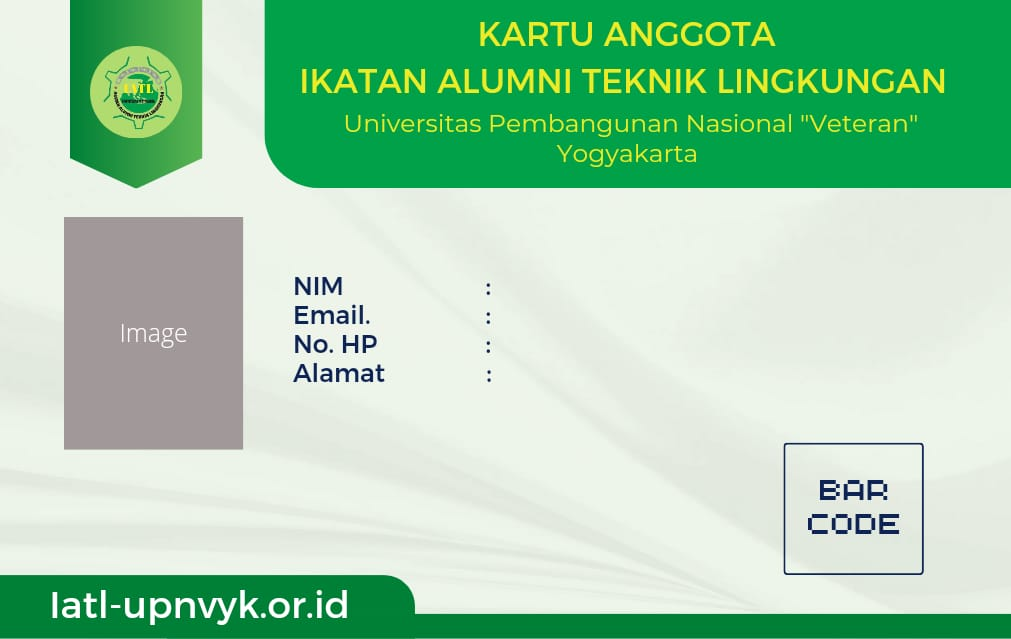
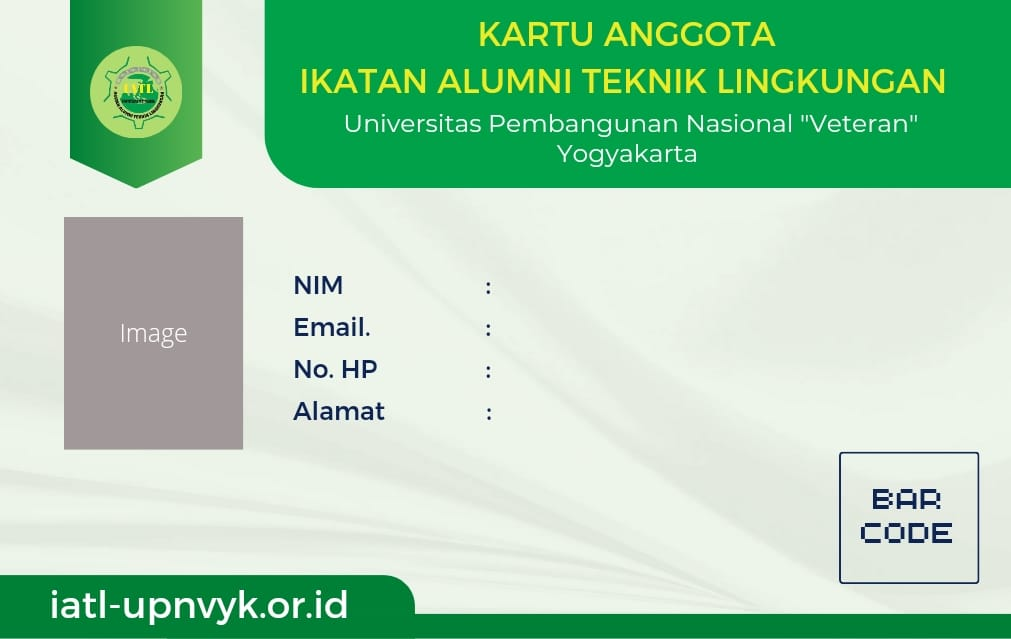
fix: content alumni card

diff --git a/resources/views/content/admin/dashboard/index.blade.php b/resources/views/content/admin/dashboard/index.blade.php
@@ -141,25 +141,25 @@
                                     <img src="{{ asset('images/iatl-card.jpeg') }}" height="200px" width="350px"
                                         class="rounded shadow " alt="Kartu Alumni">
                                     <img src="{{ asset('storage/' . auth()->user()->image) }}"
-                                        alt="{{ auth()->user()->name }}" width="65rem" height="75rem" id="foto-card"
-                                        class="position-absolute rounded" style="left: 6%; top:34%">
+                                        alt="{{ auth()->user()->name }}" width="65rem" height="76rem" id="foto-card"
+                                        class="position-absolute rounded" style="left: 6%; top:33%">
                                     <div class="name-card position-absolute" style="left: 29%; top: 30%;">
                                         <p>{{ auth()->user()->name ?? '-' }}</p>
                                     </div>
                                     <div class="name-card position-absolute"
-                                        style="left: 50%; top: 40%; font-size:0.65rem">
+                                        style="left: 50%; top:40%; font-size:0.65rem">
                                         <p>{{ auth()->user()->nim ?? '-' }}</p>
                                     </div>
                                     <div class="name-card position-absolute"
-                                        style="left: 50%; top: 45%; font-size:0.65rem">
+                                        style="left: 50%; top: 47%; font-size:0.65rem">
                                         <p>{{ auth()->user()->email ?? '-' }}</p>
                                     </div>
                                     <div class="name-card position-absolute"
-                                        style="left: 50%; top: 50%; font-size:0.65rem">
+                                        style="left: 50%; top: 54%; font-size:0.65rem">
                                         <p>{{ auth()->user()->phone_number ?? '-' }}</p>
                                     </div>
                                     <div class="name-card position-absolute"
-                                        style="left: 50%; top: 55%; font-size:0.60rem">
+                                        style="left: 50%; top: 61%; font-size:0.60rem">
                                         <p>{{ auth()->user()?->address_now }}, {{ auth()->user()->addressNow?->name }}
                                             {{ auth()->user()->addressNow?->province->name }}
                                         </p>
@@ -317,7 +317,7 @@
                             `<div class="text-center rounded">
                             <div class="card-header rounded">
                                 <div class="bg-info text-white bold p-2">
-                                    <b>Kabupate/Kota ${value.name}</b>
+                                    <b>${value.name}</b>
                                 </div>
                             <div class="card-body p-2">
                                 <div class="">Total Sebaran Alumni:</div>
@@ -349,7 +349,7 @@
                     }
                     let j = 1;
                     $('#loading-spinner').addClass('d-none');
-                    $('#title-province').text(`Data Sebaran Alumni Provinsi ${data.province}`)
+                    $('#title-province').text(`Data Sebaran Alumni ${data.regency}`)
                     $("#detailAlumni").removeClass('d-none');
                     data.users.map(function(user) {
                         $('#alumni-data').append(
